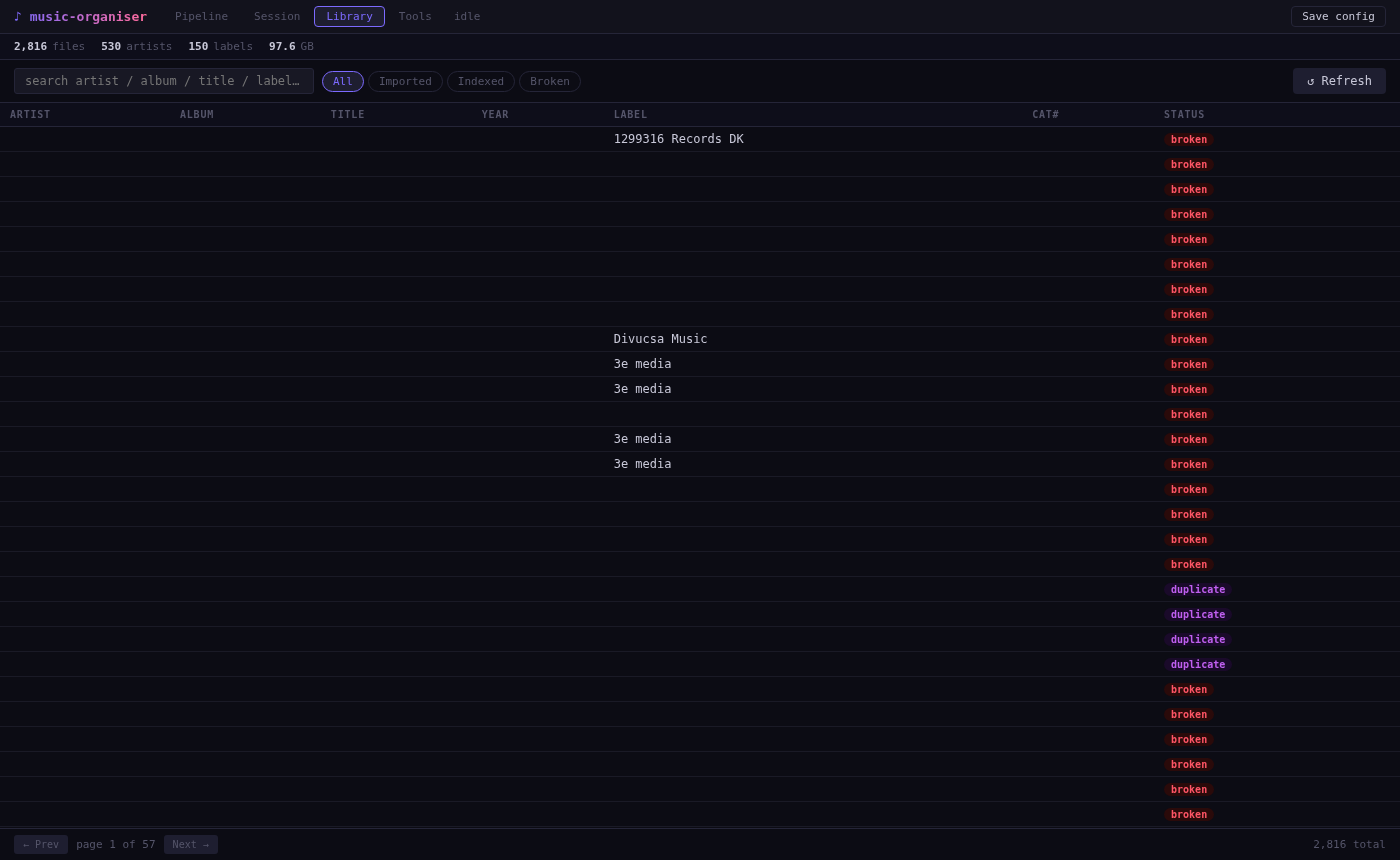
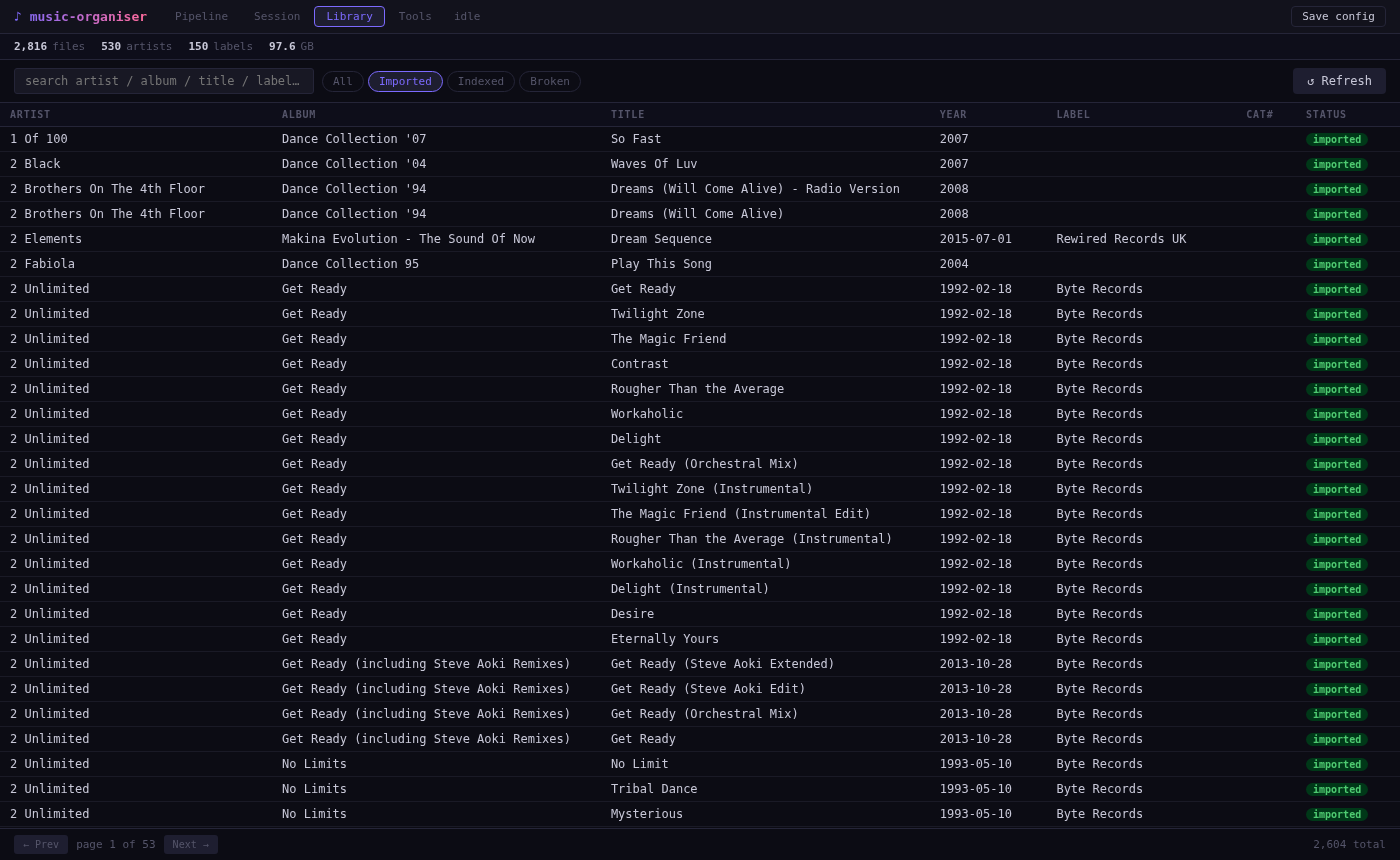
Add all screenshots + credits to README

diff --git a/README.md b/README.md
@@ -1,11 +1,27 @@
-# music-organiser
+# music-organiser / 4chanRemix
 
 Browser-based organiser for FLAC music collections.  
 Imports from Nicotine+ (Soulseek), fetches metadata from Discogs / MusicBrainz / Deezer, and organises files into a clean folder layout.
 
+---
+
+## Screenshots
+
+**Pipeline** — Import, fetch tags, organise in one click
+
 ![Pipeline](docs/screenshot-pipeline.png)
 
+**Session** — Review the current batch before committing
+
 ![Session](docs/screenshot-session.png)
+
+**Library** — Browse and search the full permanent library
+
+![Library](docs/screenshot-library.png)
+
+**Tools** — Rebuild index, SQL query, audit checks
+
+![Tools](docs/screenshot-tools.png)
 
 ---
 
@@ -149,3 +165,18 @@ Removes the service and control script. Your music files and databases are untou
       01 - Track.flac
       cover.jpg
 ```
+
+---
+
+## Credits
+
+This project grew out of years of collective effort by an underground music community.  
+Enormous credit goes to:
+
+**FriendshipisMagic** — the original author and architect of the entire pipeline, tagging engine, detection logic, and folder classification system. The core of this tool is their work.
+
+**The 4chan /mu/ lossless threads** — years of accumulated knowledge, testing, edge cases, and feedback from anons who actually use this stuff day to day. The genre logic, provider order, and general philosophy of the project came from those threads.
+
+**The Nicotine+ community** — for building and maintaining the Soulseek client that makes sharing lossless music between collectors possible in the first place.
+
+The web UI, installer, and packaging in this release were built on top of their foundation.